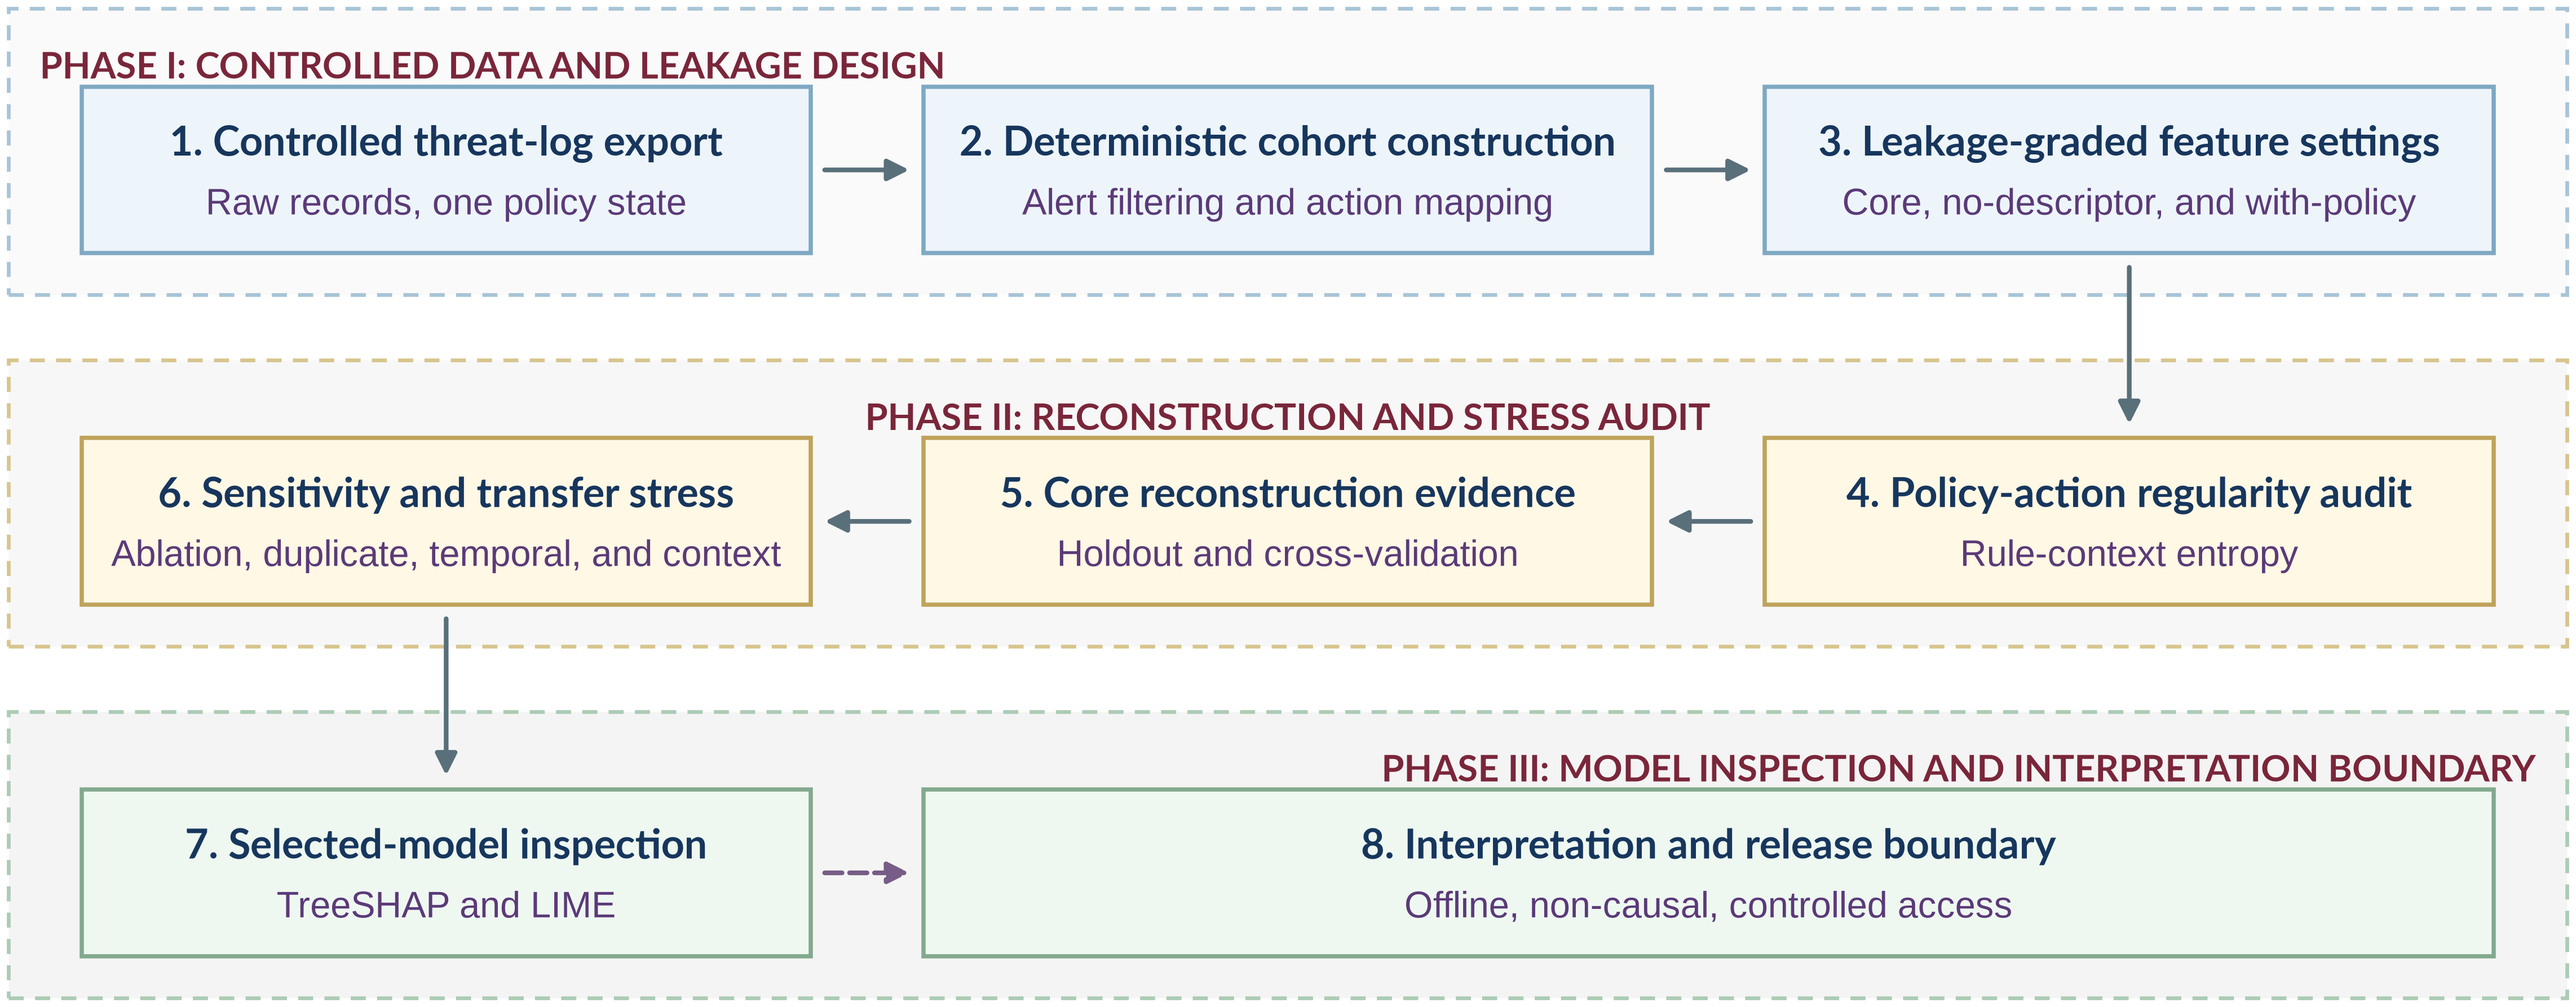
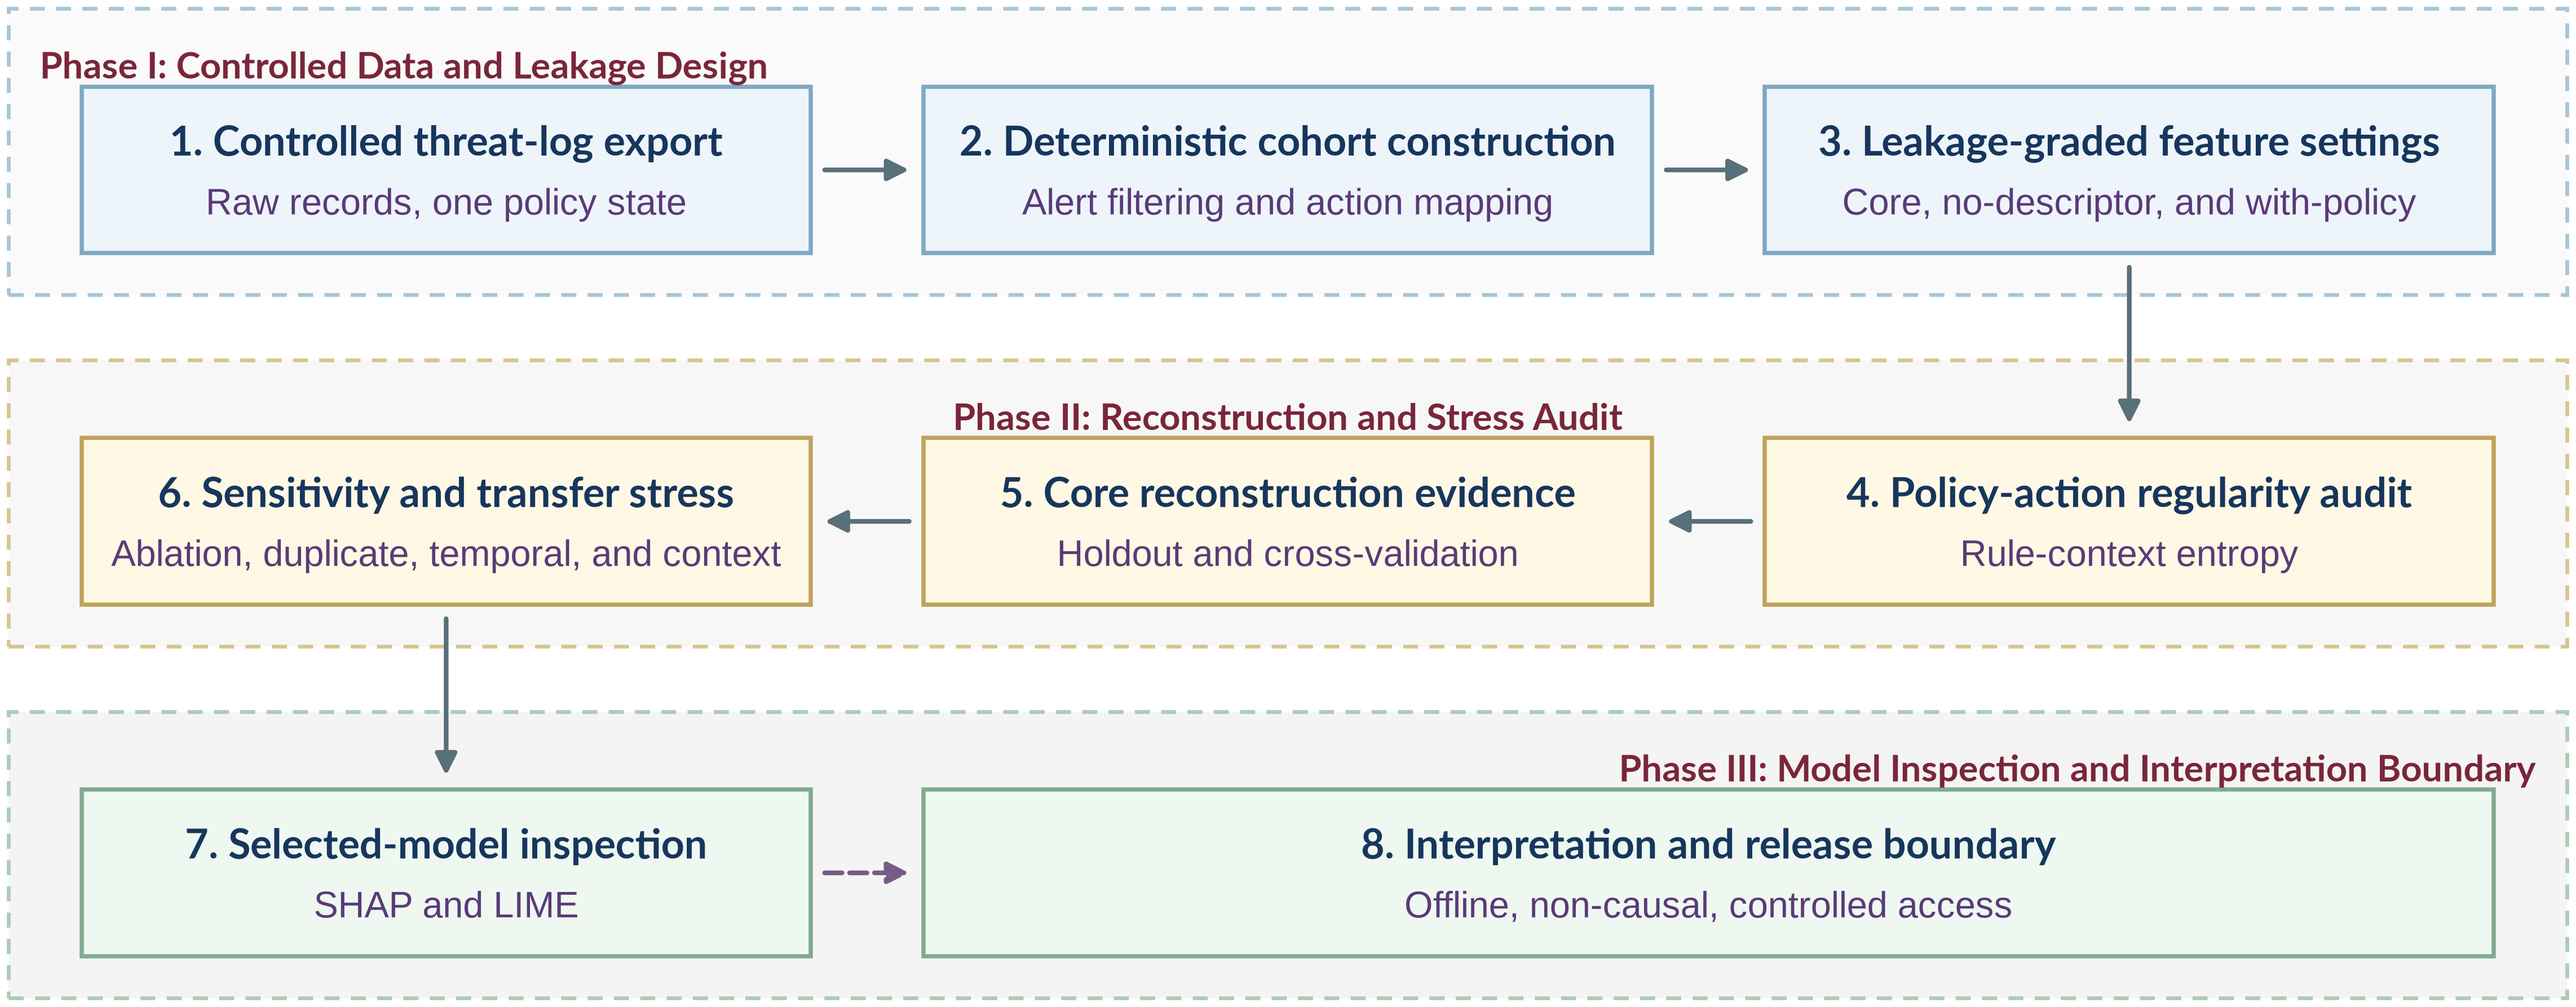
Retitle workflow phase bands and align the inspection box with expanded terms
Renderer v1.9.1: phase headings move from all-caps to title case (Phase I-III),
and box 7 names SHAP and LIME, the forms the manuscript expands at first use.
Trigger: the manuscript-side figure-text validator flagged PHASE and TreeSHAP
as tokens printed in the figure but never expanded in the prose. Same layout,
palette, and cohort checks; PNG and PDF hashes recorded in the render metadata.

diff --git a/code/20_render_methodology_workflow.py b/code/20_render_methodology_workflow.py
@@ -50,7 +50,7 @@ PHASE_PALETTES = {
         "box_edge": "#82A98E",
     },
 }
-RENDERER_VERSION = "1.9.0"
+RENDERER_VERSION = "1.9.1"
 PNG_DPI = 600
 CROP_PADDING_PIXELS = 12
 # Reproducible-build anchor: matplotlib stamps the PDF CreationDate from
@@ -401,7 +401,7 @@ def render(manifest_path: Path, output: Path, output_pdf: Path) -> tuple[dict, d
         phase1_y,
         9.76,
         phase_height,
-        "PHASE I: CONTROLLED DATA AND LEAKAGE DESIGN",
+        "Phase I: Controlled Data and Leakage Design",
         "I",
         align="left",
     )
@@ -411,7 +411,7 @@ def render(manifest_path: Path, output: Path, output_pdf: Path) -> tuple[dict, d
         phase2_y,
         9.76,
         phase_height,
-        "PHASE II: RECONSTRUCTION AND STRESS AUDIT",
+        "Phase II: Reconstruction and Stress Audit",
         "II",
         align="center",
     )
@@ -421,7 +421,7 @@ def render(manifest_path: Path, output: Path, output_pdf: Path) -> tuple[dict, d
         phase3_y,
         9.76,
         phase_height,
-        "PHASE III: MODEL INSPECTION AND INTERPRETATION BOUNDARY",
+        "Phase III: Model Inspection and Interpretation Boundary",
         "III",
         align="right",
     )
@@ -501,7 +501,7 @@ def render(manifest_path: Path, output: Path, output_pdf: Path) -> tuple[dict, d
         width,
         height,
         "7. Selected-model inspection",
-        "TreeSHAP and LIME",
+        "SHAP and LIME",
         "III",
     )
     b8 = add_box(
